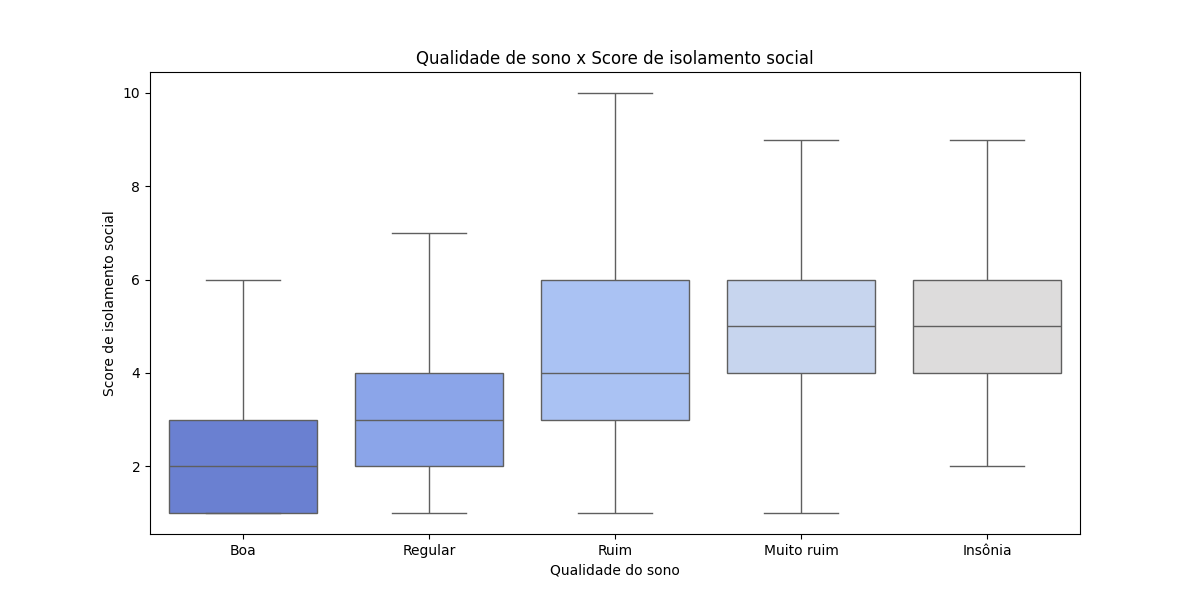
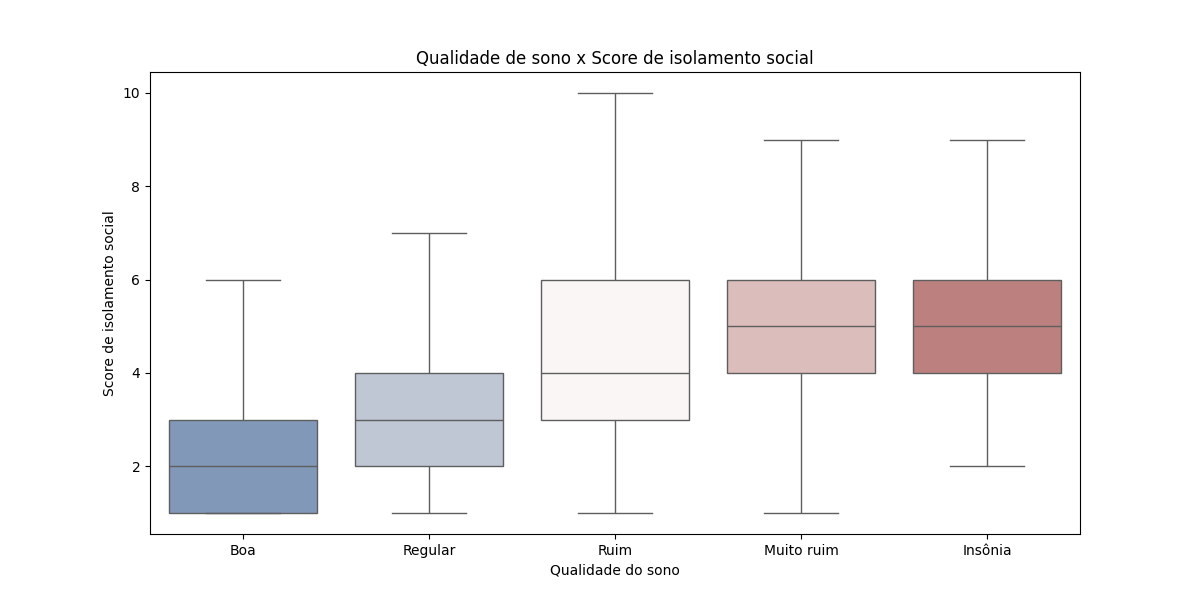
analysis update

Changed region(s): [[0.1233, 0.45, 0.8942, 0.87]]

diff --git a/analysis/EDA.py b/analysis/EDA.py
@@ -322,7 +322,7 @@ plt.show()
 
 ## sleep_quality x social_isolation_score
 
-paleta_de_cores = sns.color_palette("coolwarm", 9)
+paleta_de_cores = sns.color_palette("vlag", 5)
 
 plt.figure(figsize=(12, 6))
 
@@ -355,7 +355,7 @@ plt.show()
 
 ## daily_gaming_hours x academic_work_performance
 
-paleta_de_cores = sns.color_palette("coolwarm", 9)
+paleta_de_cores = sns.color_palette("vlag", 9)
 
 plt.figure(figsize=(12, 6))
 
